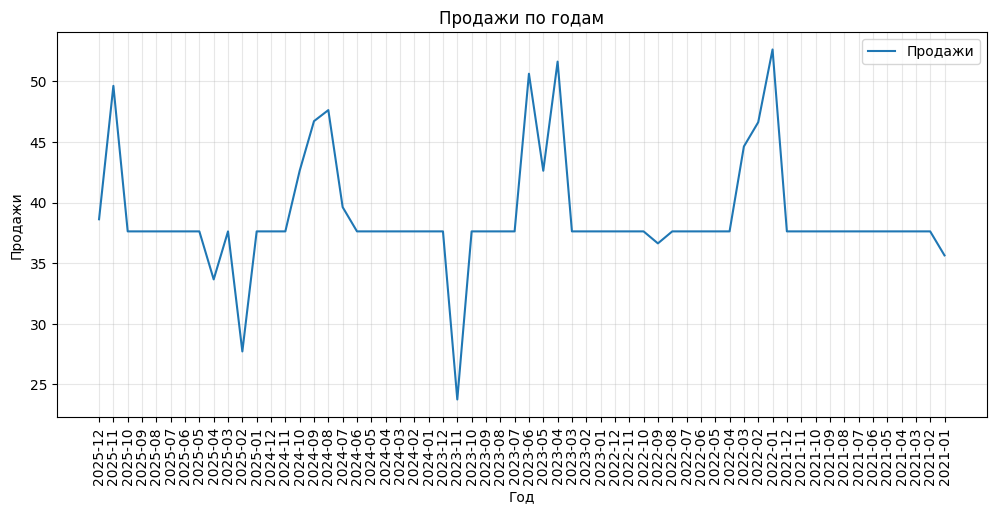
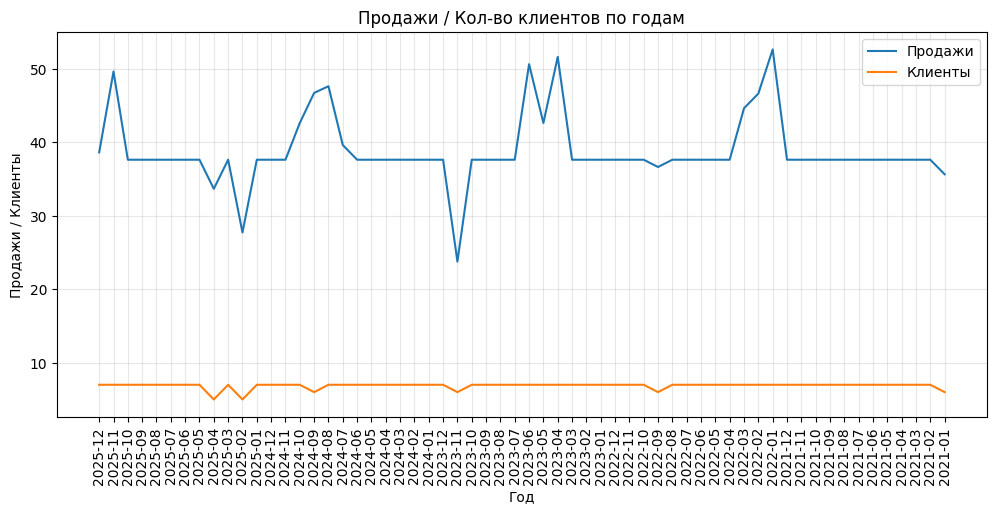
Add new sql example

diff --git a/README.md b/README.md
@@ -804,12 +804,15 @@ data.head()
 ```python
 plt.figure(figsize=(12, 5))
 plt.plot(data["InvoiceYear"], data["Total"], label="Продажи")
+plt.plot(data["InvoiceYear"], data["Customers"], label="Клиенты")
+
 plt.xticks(rotation="vertical")
-plt.xlabel("Год")
-plt.ylabel("Продажи")
-plt.title("Продажи по годам")
-plt.legend()
 plt.grid(True, alpha=0.3)
+plt.xlabel("Год")
+plt.ylabel("Продажи / Клиенты")
+plt.title("Продажи / Кол-во клиентов по годам")
+plt.legend()
+
 plt.show()
 ```
 
